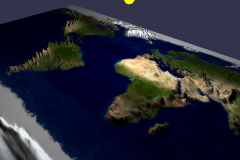
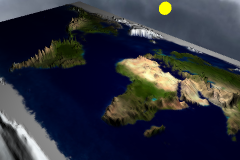
Updated height map example to show skybox

diff --git a/src/Samples/src/samples/meshes/height_map_scene.cpp b/src/Samples/src/samples/meshes/height_map_scene.cpp
@@ -63,7 +63,7 @@ void HeightMapScene::initializeScene(ICanvas* canvas, Scene* scene)
   auto skyboxMaterial             = StandardMaterial::New("skyBox", scene);
   skyboxMaterial->backFaceCulling = false;
   skyboxMaterial->reflectionTexture
-    = CubeTexture::New("textures/skybox", scene);
+    = CubeTexture::New("textures/skybox/skybox", scene);
   skyboxMaterial->reflectionTexture()->coordinatesMode
     = TextureConstants::SKYBOX_MODE;
   skyboxMaterial->diffuseColor    = Color3(0.f, 0.f, 0.f);
